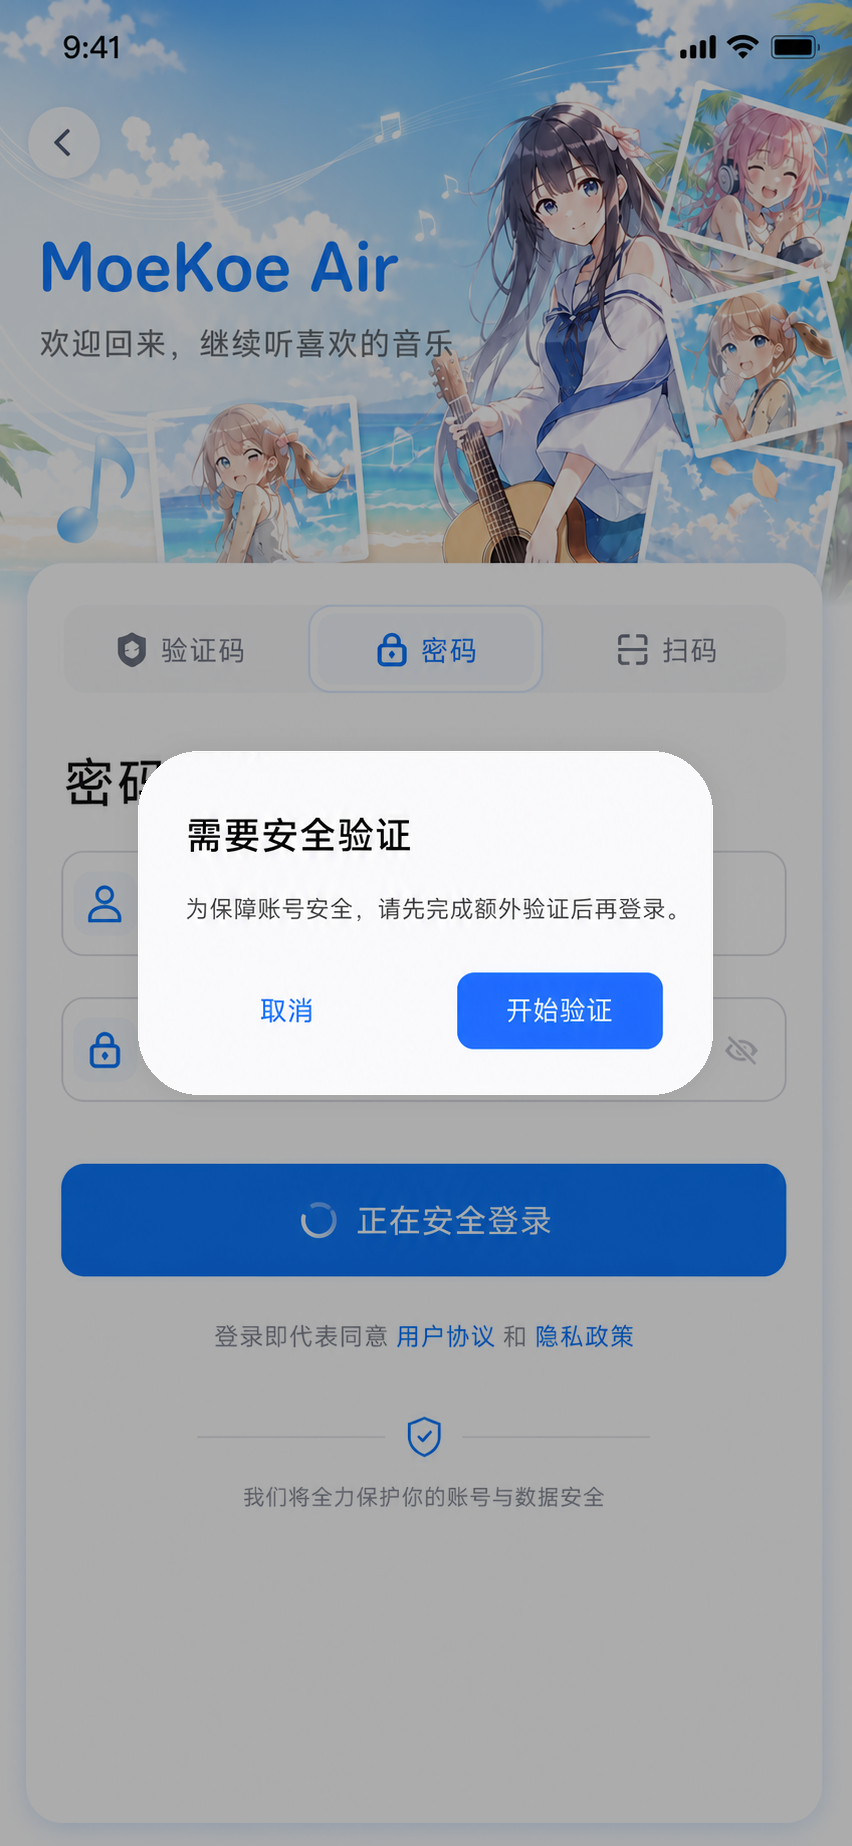
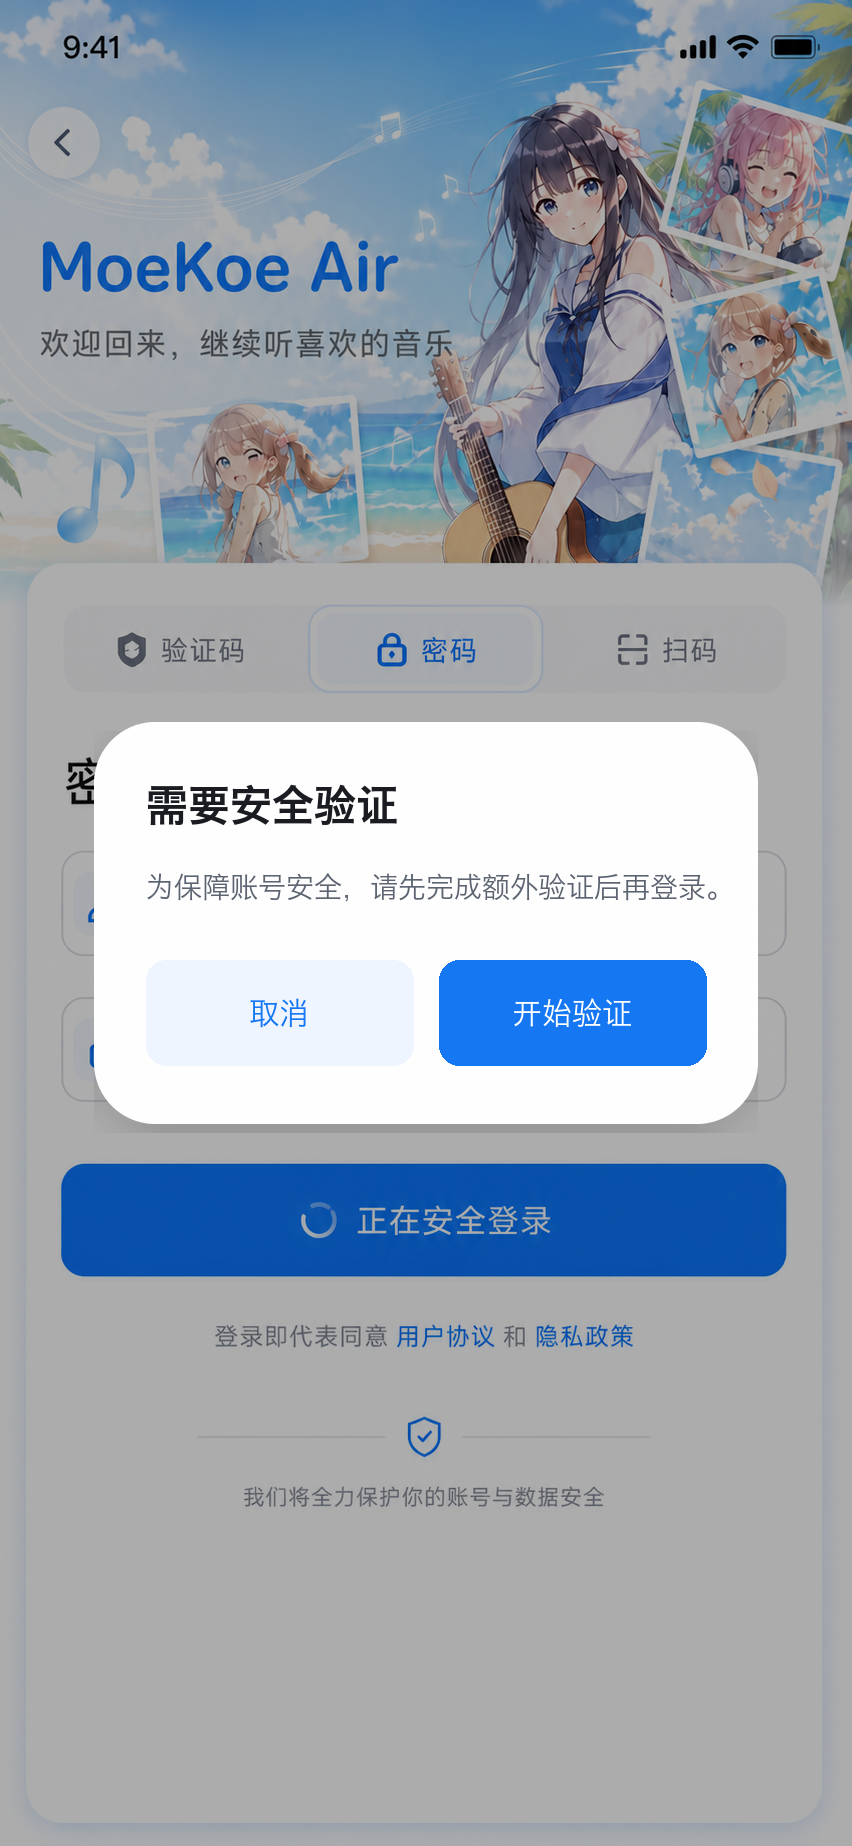
fix(design): rebalance login dialog actions

Changed region(s): [[0.0915, 0.3705, 0.9155, 0.6176], [0.3052, 0.5249, 0.3662, 0.5558]]

diff --git a/docs/UI_COMPONENTS.md b/docs/UI_COMPONENTS.md
@@ -48,12 +48,15 @@
 
 ### 通用尺寸与外观
 
-- 手机端普通确认型默认宽度为 `min(264.dp, windowWidth - 64.dp)`；六位验证码等结构化输入型允许使用 `min(288.dp, windowWidth - 64.dp)`。这两个规格由 390dp 登录画布校准，位于旧候选小弹窗与 `18-mobile-states-overlays.png` 大示例之间，不再把示例的约 `320.dp` 宽度机械套用到登录流程。大字体下允许内容增高，不固定高度；其他内容不能按文案长度任意放大。
+- 手机端普通确认型默认宽度为 `min(304.dp, windowWidth - 64.dp)`；六位验证码等结构化输入型允许使用 `min(320.dp, windowWidth - 64.dp)`。390dp 登录画布上的单侧边距分别约为 `43.dp` 与 `35.dp`；该规格介于旧候选偏小尺寸与 `18-mobile-states-overlays.png` 实测约 `350.dp` 的大示例之间。大字体下允许内容增高，不固定高度；扩大容器不得带动字号、验证码格或操作文案同比放大。
 - 默认 Dialog 必须相对完整可用视口水平、垂直居中；不得以页面内容区、底部表单、键盘上方剩余区域或触发控件作为视觉居中基准。只有 Bottom Sheet 可以贴底呈现。
 - 容器使用 `surfaceContainerHigh`，圆角 `28.dp`，遮罩使用约 32% 黑色；不使用玻璃模糊和厚重阴影。
 - 最小屏幕边距 `32.dp`，内容内边距 `24.dp`，标题与正文间距 `16.dp`，正文与操作区间距 `24.dp`。
-- 标题采用约 `24sp / 32sp`，正文采用 `14sp / 20sp`，按钮标签不小于 `14sp`。
-- 所有操作区域至少 `48.dp` 高。取消操作在左，主要操作在右；危险操作只将最终确认按钮设为 `error` 语义色。
+- 标题使用 `titleMedium`（`18sp / 26sp`），正文采用 `14sp / 20sp`，按钮标签不小于 `14sp`；不得为了填充更宽容器而放大排版层级。
+- 双操作区固定为一行：两个按钮均为 `48.dp` 高、底边和文字基线对齐，中间使用 `12.dp` 间距；默认等分可用宽度，只有文案长度明显不对称时才按内容调整，但不得造成视觉错位或状态切换跳动。
+- 取消操作在左，使用低强调 `primaryContainer` Tonal 背景与 `onPrimaryContainer` 文案；主要操作在右，使用 Filled 主色背景。取消不得只保留裸文字，也不得与主操作使用同等级 Filled 强调。危险操作只将右侧最终确认按钮切换为 `error` 语义色。
+- 默认、校验中和错误状态必须保留相同操作槽位与尺寸；提交中可禁用两个按钮，但不得让按钮消失、换位或改变 Dialog 宽度。
+- 禁用按钮使用可辨识的中性灰容器（视觉约等于 `onSurface` 以 12% 合成到 Surface）和约 38% 强度的内容色；只降低强调，不移除背景、形状或文字。禁止对整个按钮统一降低透明度至接近白色。
 - 图标只辅助表达语义，不替代标题和正文。颜色不能成为区分成功、警告和错误的唯一方式。
 
 ### 组件类型
@@ -62,7 +65,7 @@
 
 用于领取 VIP、切换会影响播放的设置等需要二次确认但可安全取消的操作。包含标题、简短影响说明、“取消”和一个主要操作。
 
-登录风控等临时阻断确认同样复用此结构：保留遮罩后的原页面和表单草稿，Dialog 相对完整可用视口居中；不得改造成页面内提示卡、下沉面板或两个等宽大按钮。
+登录风控等临时阻断确认同样复用此结构：保留遮罩后的原页面和表单草稿，Dialog 相对完整可用视口居中；取消使用低强调 Tonal Button，开始验证使用 Filled Button，两者同高并对齐。不得改造成页面内提示卡或下沉面板。
 
 #### 单按钮提示
 

diff --git a/docs/DESIGN_SYSTEM.md b/docs/DESIGN_SYSTEM.md
@@ -175,7 +175,7 @@
 - 不可在同一页面中用风险、确认或提示卡片替换用户正在操作的主表单。登录额外风险验证属于临时阻断确认：原密码表单保持可辨识但不可操作，叠加遮罩与 Dialog；Dialog 关闭后恢复原草稿和焦点语义。只有确认后的独立验证流程可以成为新页面或隔离 Activity。
 - 覆盖层状态设计图统一采用“原页面画布 → 规范遮罩 → 独立 Dialog 或 Bottom Sheet 前景层”的确定性合成方式；不得重新生成遮罩后的底层页面，底层文案、输入草稿、控件尺寸与坐标必须保持不变。
 - Bottom Sheet 必须贴住手机视口底部，占满可用宽度，仅顶部使用 `28dp` 圆角，并处理底部安全区；使用遮罩与统一轻量顶缘投影分层，默认 `24dp` 水平内边距、一个 `48dp` Filled 主操作和一个 TextButton 取消，不堆叠两个同等级全宽按钮。
-- 手机普通确认 Dialog 默认宽度为 `min(264.dp, windowWidth - 64.dp)`；六位验证码等结构化输入 Dialog 可使用 `min(288.dp, windowWidth - 64.dp)`。两者由 390dp 登录画布校准，高度均由内容决定，不通过放大字号和按钮填满容器，也不机械沿用 `18-mobile-states-overlays.png` 中偏大的示例宽度。Dialog 默认相对完整可用视口水平、垂直居中，不得相对底部表单或剩余内容区居中。遮罩约为 32% 黑色，确认型操作沿用 [`11-dialog-components.png`](design/mockups/11-dialog-components.png) 的左侧文字取消与右侧主按钮结构。
+- 手机普通确认 Dialog 默认宽度为 `min(304.dp, windowWidth - 64.dp)`；六位验证码等结构化输入 Dialog 可使用 `min(320.dp, windowWidth - 64.dp)`。两者由 390dp 登录画布复核校准，分别保留约 `43.dp` 与 `35.dp` 单侧边距，处于旧候选偏小尺寸与 `18-mobile-states-overlays.png` 约 `350.dp` 示例宽度之间。高度仍由内容决定；扩大容器时不得同步放大字号、验证码格或按钮文案。Dialog 默认相对完整可用视口水平、垂直居中，不得相对底部表单或剩余内容区居中。遮罩约为 32% 黑色。双操作区使用两个同高 `48dp` 按钮并保持底边对齐、间距 `12dp`：左侧取消为低强调 Tonal 容器，右侧主操作为 Filled 容器；不得再把取消画成与主按钮错位的裸文字。禁用态保留可辨识的中性灰容器，不得通过整体降透明度让按钮与 Dialog 表面融为一体。
 - Snackbar 左右边距 `16dp`，最多两行和一个操作，位于 MiniPlayer 上方。
 - DropdownMenu 必须锚定触发控件；音质、排序等多项单选优先使用 Bottom Sheet。
 - 同一时间只展示一个模态覆盖层；系统返回、焦点恢复和遮罩关闭规则必须明确。

diff --git a/docs/UI_DESIGN_BRIEF.md b/docs/UI_DESIGN_BRIEF.md
@@ -57,7 +57,7 @@
 - 插画绘制到状态栏后方，不设置独立白色 App Bar，也不重复显示“登录”标题。
 - 返回按钮位于系统安全区内，使用标准 Material 返回图标、`48dp` 触控区域和约 `40dp` 半透明圆形 Surface。
 - 验证码、密码和扫码使用同一表单 Surface 内的分段切换，不拆成三套无关视觉语言。
-- 密码提交触发额外风险验证时，保留密码表单、当前账号输入和页面层级，以遮罩上的安全验证 Dialog 说明原因并提供“开始验证 / 取消”操作；Dialog 必须沿用 `11-dialog-components.png` 的确认型结构并相对完整可用视口居中，不得相对底部表单居中，也不得用内联卡片或下沉面板替换密码表单主体。只有用户确认开始后，才进入隔离的腾讯验证容器或短信二次验证步骤，取消与返回必须回到原密码草稿。
+- 密码提交触发额外风险验证时，保留密码表单、当前账号输入和页面层级，以遮罩上的安全验证 Dialog 说明原因并提供“开始验证 / 取消”操作；Dialog 必须相对完整可用视口居中，取消 Tonal Button 与右侧 Filled Button 同高、同一基线，不得相对底部表单居中，也不得用内联卡片或下沉面板替换密码表单主体。只有用户确认开始后，才进入隔离的腾讯验证容器或短信二次验证步骤，取消与返回必须回到原密码草稿。
 - 多账号选择只在接口确实返回多个账号后显示，不在默认登录状态常驻。
 - 普通操作图标优先复用 Compose Material Icons，不为已有标准语义重复制作 SVG。
 

diff --git a/docs/design/mockups/candidates/login-v2/README.md b/docs/design/mockups/candidates/login-v2/README.md
@@ -12,6 +12,8 @@
 
 所有候选均为独立的 `852 × 1846` 完整手机画布，不使用一张横向总览图承载多个状态。自动生成的示例账号、二维码和服务内容仅表达视觉，不是协议或正式数据。
 
+Dialog 已于 2026-08-06 按 390dp 画布重新校准：普通确认型使用 `304dp` 宽度，六位验证码结构化输入型使用 `320dp` 宽度；两者均保留原排版密度、`48dp` 操作区、`28dp` 圆角与 32% 遮罩，不采用 `18-mobile-states-overlays.png` 约 `350dp` 的图板示例宽度。双操作区统一为 `12dp` 间距的等高按钮，左侧取消使用低强调 Tonal 背景，右侧主操作使用 Filled 背景，默认、提交和错误状态不移动槽位；禁用态保留清晰的中性灰容器，不与白色 Dialog 表面融合。`22d` Bottom Sheet 已确认符合规范，本轮不改动。
+
 ### 页面基座矩阵
 
 | 状态 | 固定基座 | 允许变化区域 |
